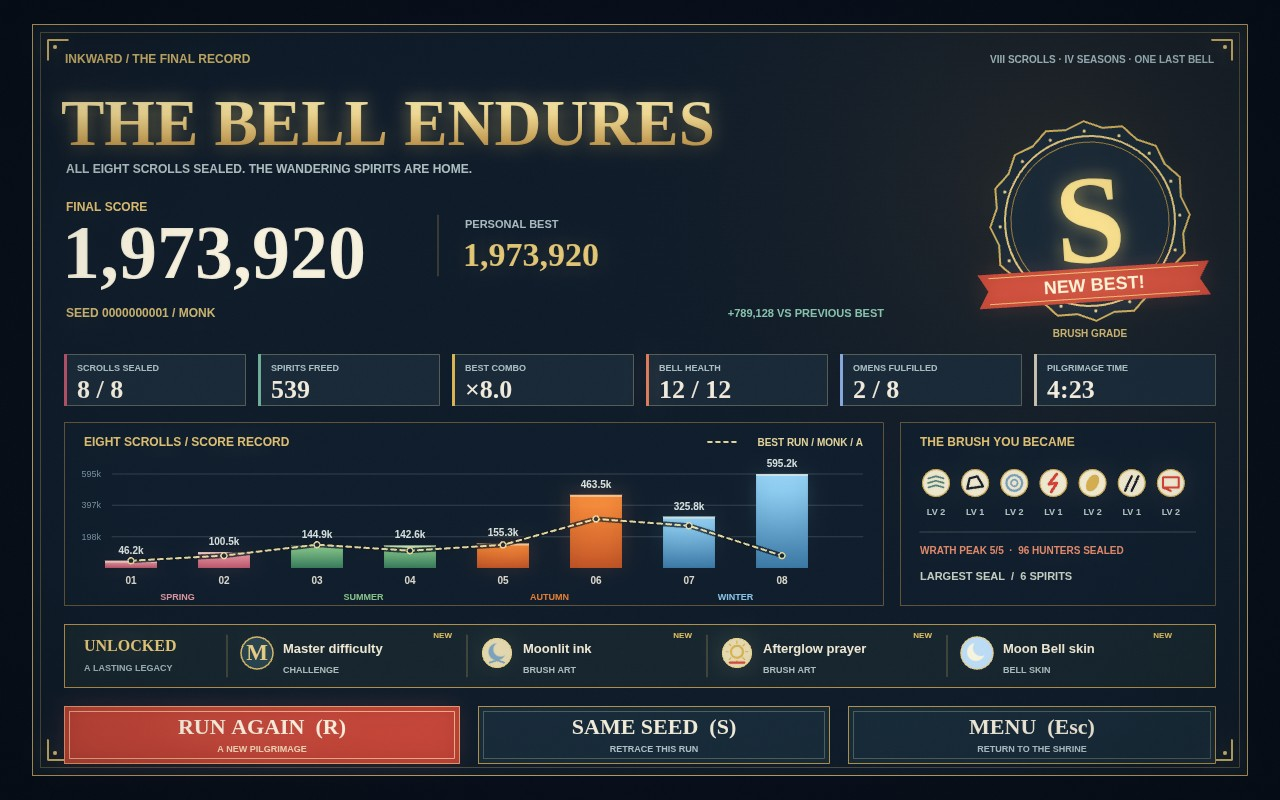
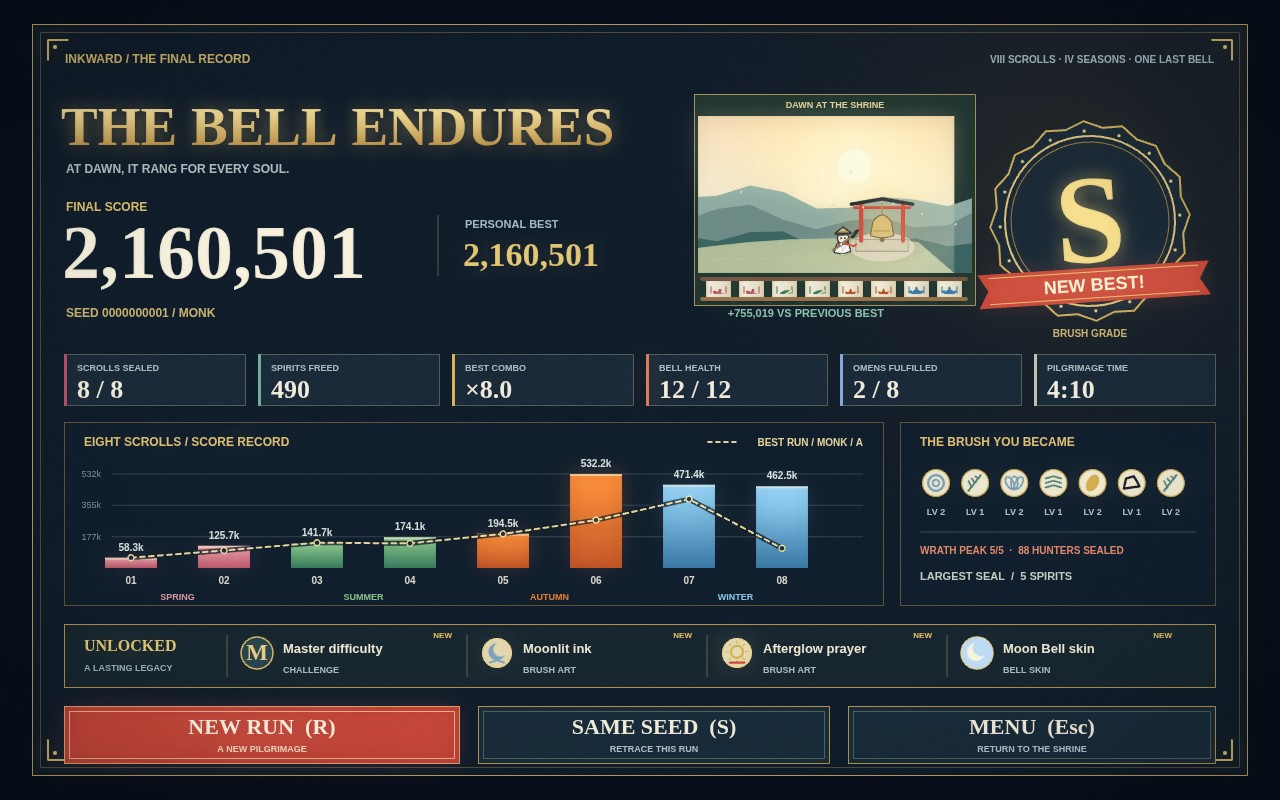
Refresh the four finale dossier images and document the finished run
Verify syntax, core, controls, systems, finale and browser checks with zero browser errors. Two independent MAKEFUN_OUTPUT_DIR builds match byte for byte across all 78 output files.

diff --git a/game/src/shots.js b/game/src/shots.js
@@ -91,7 +91,7 @@ export function createReplayPilot(options = {}) {
   };
 }
 export function stageShot(name, seed = 1) {
-  const previous = ['win', 'ending'].includes(name) ? replayPreviousAttempt(seed) : null;
+  const previous = ['title', 'win', 'ending'].includes(name) ? replayPreviousAttempt(seed) : null;
   const state = createState(seed, previous?.best || 0, 'monk', previous?.progress), input = replayInput();
   if (name === 'start' || name === 'title' || !['play', 'end', 'win', 'ending', 'draft', 'winter'].includes(name)) {
     state.time = 3.5; return { state, input };

diff --git a/README.md b/README.md
@@ -1,27 +1,28 @@
 # INKWARD
 
-Paint ink walls, encircle wandering yokai, and guard the last bell through eight scrolls and four seasons.
+Paint walls and looping seals to guard the last bell through eight seasonal scrolls, then break winter with a spectacular final brushstroke.
 
-- **Complete pilgrimage:** eight distinct bosses, win/lose results and grade, combo × WRATH scoring, saved best scores, pause and restart.
+- **Complete pilgrimage:** eight distinct bosses, a three-phase final warden, win/lose results and grade, combo × WRATH scoring, saved best scores, pause and restart.
 - **Build your brush:** 12 base brush arts, two victory unlocks, three real school synergies, three-level upgrades, optional omens and branching Swarm/Quiet roads.
 - **Tight controls:** WASD/arrows move, Space dash, mouse drag paint, right-click splash, Q hush, E ward; 120 ms input buffering, stroke-start grace and ink-cost/snap reticle.
 - **Touch:** one-finger paint, two-finger tap splash, and a dash button shown only on touch devices. Menus and draft/path choices also accept taps.
 - **Every run remembered:** seeded runs, same-seed replay, previous-best score ghost, permanent unlocks and bell skins saved locally.
 - **Ink comes alive:** distinct art casts and synthesized sounds, two-frame ritual inversions, yokai wind-ups/hurt flashes/petal deaths, monk recoil and i-frames, WRATH hunter auras.
+- **A spectacular finish:** cinematic phase changes, a frozen final-seal slash, clean bell and sweeping dawn, eight unrolling scrolls and an original skippable epilogue. Results count up, stamp your grade and reveal stats, unlocks and your best ghost; adaptive music, a victory fanfare and an ink-dissolve defeat complete the run.
 
 [![make.fun · best-game-01](https://make.fun/badge/best-game-01.svg)](https://make.fun/bounty/best-game-01?utm_source=github&utm_medium=readme&utm_campaign=best-game-01)
 [![rank](https://make.fun/badge/best-game-01/paisalrvldoo/makefun-inkward/rank.svg)](https://make.fun/bounty/best-game-01/leaderboard?utm_source=github&utm_medium=readme&utm_campaign=best-game-01)
 [![reward](https://make.fun/badge/best-game-01/paisalrvldoo/makefun-inkward/reward.svg)](https://make.fun/bounty/best-game-01?utm_source=github&utm_medium=readme&utm_campaign=best-game-01)
 
-![INKWARD gameplay: ink walls and yokai around the shrine bell](screenshots/1-play.jpg)
+![INKWARD title: brush logo, earned best score and controls](screenshots/1-title.jpg)
 
 ## Screenshots
 
-![INKWARD title screen](screenshots/2-title.jpg)
+![INKWARD gameplay: ink walls, vivid group seals, combo and a full boss HUD](screenshots/2-play.jpg)
 
 ![INKWARD brush-art draft after scroll five](screenshots/3-draft.jpg)
 
-![INKWARD victory results](screenshots/4-victory.jpg)
+![INKWARD dawn ending record: S grade, stats, unlocks and best ghost](screenshots/4-victory.jpg)
 
 ## How to play
 
@@ -47,7 +48,8 @@ Clear every spirit in a scroll to advance and choose a brush art. Clear all **ei
 | P / Esc | Pause or resume during play |
 | M | Toggle sound |
 | G | Toggle cinematic graphics (on by default) |
-| R / Run again | Start another run with a fresh seed from the results screen |
+| R / New Run / Retry | Start another run with a fresh seed; retry is available immediately during defeat |
+| Any key / tap during the ending | Skip the epilogue to the final record; another key completes its score reveal |
 | R / seed button on title | Roll a fresh seed before starting |
 | S / Same seed | Replay the finished run's seed and difficulty |
 | Esc / title button | Return to the title from the results screen |
@@ -92,6 +94,8 @@ The title and results display your run seed. Use **Same seed (S)** to revisit it
 
 Every scroll has its own boss. Early wardens teach readable attacks; the last three encounters demand stronger builds. Oni take multiple seals to defeat and become more aggressive as their health falls, changing silhouette and colour. Watch their body wind-ups and ground warnings for minion storms, bell charges, and wall-eating roars. Stun them with dash, splash, or Q, or seal them during recovery for stronger hits. Enclosing nearby minions with a boss adds damage; after a hit, wait for its brief seal lock to expire.
 
+Yukioro's final ward breaks at seven and three health: a screen-wide ink wash and slow-motion name card mark each phase, even with a powerful build. Its last breath alternates vertical and horizontal frost lanes; the gaps and post-attack recovery are your opening. The final seal holds the actual hit frame, cuts across the screen and releases every remaining spirit in a shockwave of ink and petals. Dawn then brings the monk home before your animated final record. Every scene also works in plain Canvas.
+
 | Scroll | Boss | Opening |
 | --- | --- | --- |
 | 1 | Suzune, the Reed Warden | Two health; petals signal its small minion storm |
@@ -101,7 +105,7 @@ Every scroll has its own boss. Early wardens teach readable attacks; the last th
 | 5 | Hibane, the Ash Oni | Five health; charge warnings expose its flame mask |
 | 6 | Momijara, the Maple Oni | Also takes stronger hits during its charge warning; walls can break a charge and expose it |
 | 7 | Sumigara, the Inkstone Oni | Six health; wall-eating roars leave a recovery window |
-| 8 | Yukioro, the Frost Oni | Break its ward by stunning it, catching recovery, or enclosing it with at least two minions |
+| 8 | Yukioro, the Frost Oni | Three enforced phases; stun or catch recovery, then dash through alternating frost lanes and land the last seal |
 
 Hold **two different arts from a school** to activate its bonus. More levels of one art do not count as a pair. The BRUSH ARTS panel shows a **SYNERGY** chip, and draft cards identify their school and prospective synergy.
 
@@ -130,6 +134,7 @@ node scripts/check-syntax.mjs
 node scripts/check-core.mjs
 node scripts/check-controls.mjs
 node scripts/check-systems.mjs
+node scripts/check-finale.mjs
 node serve.ts --port 8123
 # With the server running, in a second terminal:
 node scripts/check-browser.mjs http://localhost:8123
@@ -156,7 +161,7 @@ game/
     input.js           Keyboard and pointer input
     controls/          120 ms action buffers, stroke grace and touch gestures
     audio.js           Synthesized sound
-    audio/             Distinct oscillator/noise voices for every brush art
+    audio/             Original adaptive music, finale layers and distinct brush-art voices
     save.js            Local best runs, unlocks, and bell-skin persistence
     rng.js             Seeded randomness
     world/             Scrolls, branching roads, waves, difficulty, WRATH, omens, and state updates
@@ -166,10 +171,11 @@ game/
     fx/                Cast events, ritual impacts, death dissolves and recoil
     render/            Cached parallax scenery, animated sprites, light, effects, and HUD
       post/            Optional WebGL2 bloom, seasonal grade and paper composite
-    screens/           Title, draft, pause, and results
+    scenes/            Final-seal, dawn-ending and defeat timing
+    screens/           Title, draft, pause, ending, defeat and animated results
     shots.js           Submission-view staging
     coverReplay.js     Gameplay replay for the cover
-screenshots/           Four submission JPEGs: play, title, draft, and victory
+screenshots/           Four submission JPEGs: title, play, draft, and dawn victory record
 shots.json             Submission view definitions
 scripts/               Syntax, core-mechanics, and browser checks
 serve.ts               Local static server
